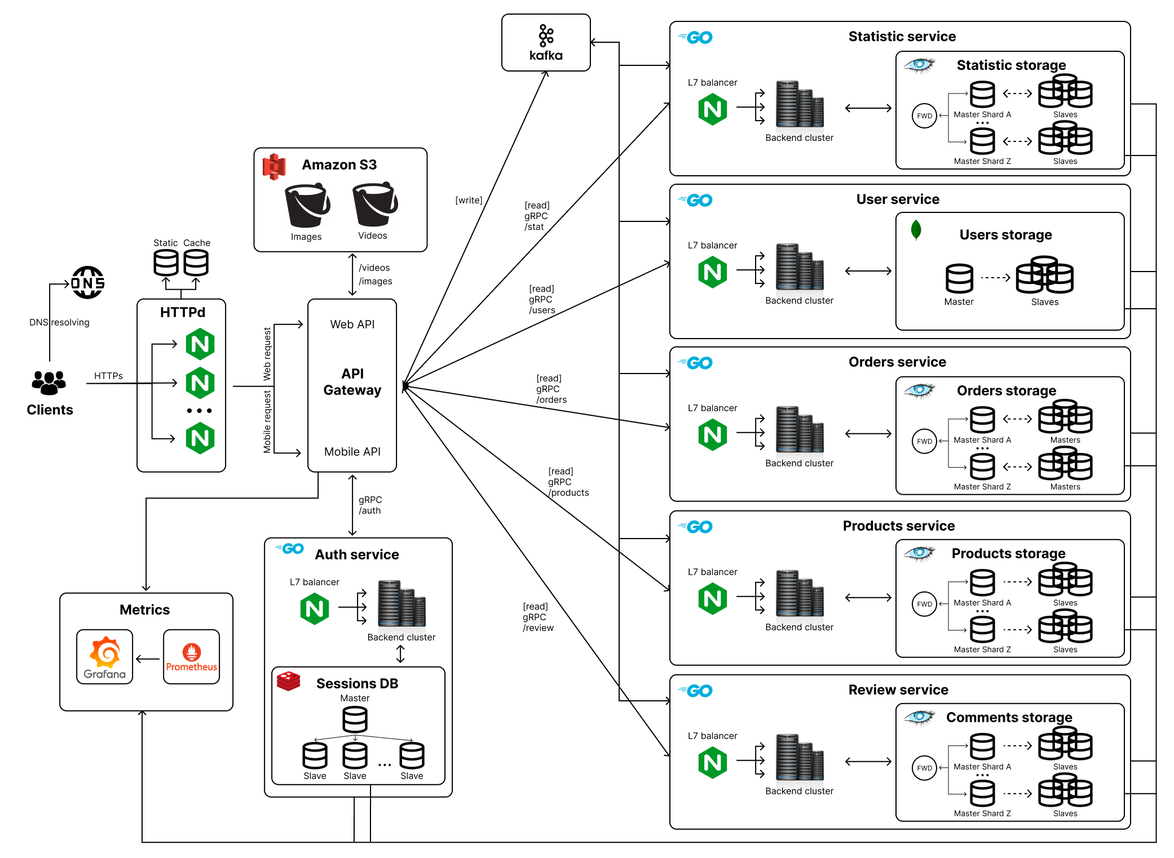
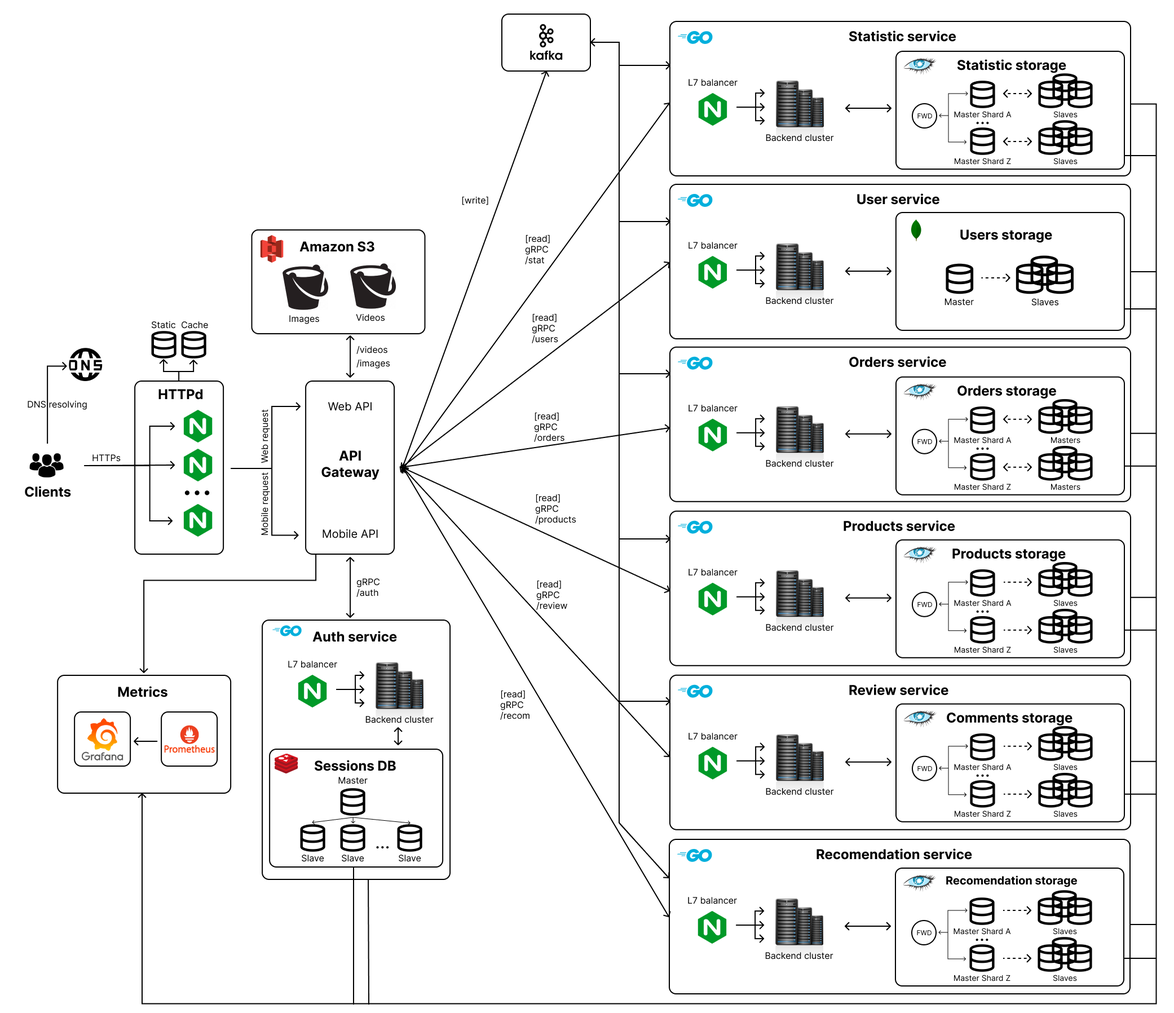
added a service of recomendations, updated indexes in physical schema of the database, added a description of the scenario for restoring the master and slave nodes

diff --git a/README.md b/README.md
@@ -182,6 +182,7 @@ Amazon — американская компания, крупнейшая в м
  - bigint - 8 Б
  - timestamp - 8 Б
  - double - 8 Б
+ - enum - 4 Б
 
 **Допущения при рассчете:**
 
@@ -195,13 +196,15 @@ Amazon — американская компания, крупнейшая в м
 - У амазона 23 главных категории, в каждой из которых примерно по 10 подкатегорий
 - 1.45 - количество оформлений заказов в день на 1 пользователя, тогда в год на всех пользователей это 3863 млн
 - На одного пользователя в среднем одна сессия
+- В таблице с самыми популярными товарами пусть будет по 20 товаров с каждого магазина по каждой категории (в среднем, считаем что на один магазин - 6 категорий товаров). Тогда общее количество строк в таблице - 0.73 млн (количество магазинов) * 20 (берем 20 товаров с магазина) * 6 (в среднем шесть категорий у одного магазина) = 88 млн строк
+- В таблице с рекомендациями находятся рекомендации только для самых популярных товаров => строк столько же, сколько в таблице самых популярных (считаем, что на каждый товар - примерно 10 рекомендаций)
 
 | Таблица         | Строк (млн) | Данных на строку | Всего | 
 | ------------- |:-------------:| :-------: | :-------: |
 | users        | 7.3 | 8 + 30 + 50 + 32 + 50 + 50 + 1 + 8 + 8 = 237 Б | 1.6 Гб |
 | recipients |  7.3 | 8 + 50 * 6 + 4 * 2 + 20 + 100 + 8 = 444 Б | 3.02 Гб |
 | payments_details    | 7.3 | 8 + 16 + 8 + 32 + 8 = 72 Б | 0.49 Гб |
-| shopping_cards  | 7.3 | 8 + 4 + 8 + 8 = 36 Б| 0.24 Гб |
+| shopping_cards  | 7.3 | 8 + 4 + 8 = 20 Б| 0.14 Гб |
 | stores  | 0.73 | 8 + 50 + 200 + 8 = 266 Б| 0.18 Гб |
 | products  | 266 | 8 + 50 + 200 + 4 + 8 * 9 + 8 + 8 + 8 = 358 Б| 87 Гб |
 | media  | 2394 | 8 + 100 + 50 = 158 Б| 352 Гб |
@@ -210,16 +213,18 @@ Amazon — американская компания, крупнейшая в м
 | categories (с parent_id)  | 0.000253 | 8 + 50 + 8 = 66 Б| 16 Мб |
 | orders  | 3863 | 8 + 4 + 8 + 10 + 8 * 4 = 62 Б| 223 Гб |
 | sessions | 7.3 | 8 + 100 + 8 + 8  = 124 Б| 0.84 Гб|
-| product_statistics| 266 | 8 * 7 = 56 Б | 14 Гб |
-| store_statistics| 0.73 | 8 * 4 = 32 Б | 0.02 Гб |
+| product_statistics| 266 | 8 * 6 = 48 Б | 11.9 Гб |
+| store_statistics| 0.73 | 8 * 3 = 24 Б | 0.02 Гб |
+| most_popular_products | 88 | 8 + 8 + 8 + 8 = 32 Б | 2.6 Гб | 
+| recomendation_products | 88 | 8 + 10 * 8 + 4 = 92 Б | 7.5 Гб | 
 
-**Итого:** ~1871 Гб в год или 1.83 Пб (без учета медиа - они были выше)
+**Итого:** ~1880 Гб в год или 1.84 Пб (без учета медиа - они были выше)
 
 ## Физическая схема БД
 
 Модель данных выглядит достаточно сложной и масштабируемой, что делает использование нереляционных баз данных привлекательным вариантом. В качестве основных СУБД лучше будет использовать Cassandra и MongoDB.
 
-`Stores`, `Products`, `Comments`, `Orders`, `Product_statistics`, `Store_statistics`: Эти таблицы обладают большим размером данных и активно используются, что делает Casandra идеальным выбором из-за ее высокой доступности и производительности. Cassandra также поддерживает шардирование, что позволяет эффективно распределить данные на узлы и обеспечить горизонтальное масштабирование.
+`Stores`, `Products`, `Comments`, `Orders`, `Product_statistics`, `Store_statistics`, `most_popular_products` и `recomendation_products`: Эти таблицы обладают большим размером данных и активно используются, что делает Casandra идеальным выбором из-за ее высокой доступности и производительности. Cassandra также поддерживает шардирование, что позволяет эффективно распределить данные на узлы и обеспечить горизонтальное масштабирование.
 
 `Users`, `Recipients`, `Payments_details`, `Shopping_carts`: MongoDB позволяет эффективно обрабатывать наборы данных. Благодаря гибкости и возможности непосредственного хранения массивов данных в документах.
 
@@ -290,8 +295,7 @@ Amazon — американская компания, крупнейшая в м
  - **Частота чтения:** высокая
  - **Частота записи:** высокая
  - **Индексы:**
-   - `cart_id` - PK
-   - `user_id` - FK
+   - `user_id` - PK
  - **Денормализация:** допольнительно хранить список id товаров, которые находятся в корзине 
  - **Репликация:** master-master
 
@@ -316,9 +320,8 @@ Amazon — американская компания, крупнейшая в м
  - **Частота записи:** средняя
  - **Индексы:**
    - `product_id` - PK
-   - `store_id` - FK
-   - `price` - фильтрация по цене (на уровне шарда)
-   - `raiting` - фильтрация по рейтингу (на уровне шарда)
+   - `store_id + price` - составной индекс (для получения товаров из конкретного магазина(-ов) + фильтрация/сортировка по цене)
+   - `store_id + raiting` - составной индекс (для получения товаров из конкретного магазина(-ов) + фильтрация/сортировка по рейтингу)
  - **Шардирование:** по `store_id`
  - **Денормализация:** допольнительно хранить список id медиа файлов
  - **Репликация:** master-slave
@@ -332,8 +335,8 @@ Amazon — американская компания, крупнейшая в м
  - **Частота записи:** низкая
  - **Индексы:**
    - `comment_id` - PK
-   - `user_id` - FK (на уровне шарда)
-   - `product_id` - FK
+   - `user_id` - FK (используется при запросе отзывов конкретного пользователя)
+   - `product_id` - FK (используется при запросе отзывов на конкретный товар)
  - **Шардирование:** по `product_id` 
  - **Репликация:** master-slave
 
@@ -346,13 +349,12 @@ Amazon — американская компания, крупнейшая в м
  - **Частота записи:** высокая
  - **Индексы:**
    - `order_id` - PK
-   - `user_id` - FK
-   - `created_at` - для сортировки по времени создания заказа (на уровне шарда)
+   - `user_id + created_at` - составной индекс (для получения заказов конкретного пользоваля + сортировки по самым новым/старым)
  - **Шардирование:** по `user_id`
  - **Денормализация:** допольнительно хранить список id товаров, которые находятся в заказе 
  - **Репликация:** master-master
 
-#### Product statistic 
+#### Product_statistic 
 
 Таблица статистики о товарах.
 
@@ -360,11 +362,11 @@ Amazon — американская компания, крупнейшая в м
  - **Частота чтения:** высокая
  - **Частота записи:** низкая
  - **Индексы:**
-   - `product_id` - FK
+   - `product_id` - PK
  - **Шардирование:** по `product_id`
  - **Репликация:** master-slave
 
-#### Store statistic
+#### Store_statistic
 
 Таблица статистики о магазинах.
 
@@ -372,7 +374,33 @@ Amazon — американская компания, крупнейшая в м
  - **Частота чтения:** высокая
  - **Частота записи:** низкая
  - **Индексы:**
+   - `store_id` - PK
+ - **Репликация:** master-slave
+
+#### Most_popular_products  
+
+Таблица самых популярных товаров по магазинам и категориям.
+
+ - **Размер:** высокий
+ - **Частота чтения:** высокая
+ - **Частота записи:** низкая
+ - **Индексы:**
    - `store_id` - FK
+ - **Шардирование:** по `store_id`
+ - **Репликация:** master-slave
+
+> Был выбран `store_id`, а не `category`, так как у него намного выше селективность.
+
+#### Recomendation_products  
+
+Таблица рекмоендованных товаров.
+
+ - **Размер:** высокий
+ - **Частота чтения:** высокая
+ - **Частота записи:** низкая
+ - **Индексы:**
+   - `product_id` - PK
+ - **Шардирование:** по `product_id`
  - **Репликация:** master-slave
 
 ### Клиентские библиотеки
@@ -398,6 +426,8 @@ Amazon — американская компания, крупнейшая в м
 
 1. Для новых пользователей, о вкусах которых еще ничего не известно, можно использовать стратегию "Самое популярное" по категориям и по магазинам. Оценка каждого товара рассчитывается как взвешенная сумма всех взаимодействий с ним: покупок, добавлений в корзину и просмотров. Система оценивает свежие взаимодействия выше, чем прошлые.
 
+    > Алгоритм берет данные из статистики товаров, распределяет их по категориям и магазинам и сохраняет их в таблицу `most_popular_products`. Когда приходит запрос с конкретным магазином или категорией - данные просто берутся из таблицы.
+
 2. Рекомендации на основе товаров (или "С этим часто покупают"). В рамках этой стратегии пользователю рекомендуются товары, которые часто покупают в связке с тем товаром, который он сейчас смотрит. 
 
     Для реализации этой стратегии можно использовать методы ассоциативного анализа, такие как алгоритм Apriori, который позволяет выявлять часто встречающиеся комбинации товаров в покупках. При просмотре определенного товара, система может рекомендовать товары, встречающиеся вместе с ним в чаще всего в покупках.
@@ -407,6 +437,11 @@ Amazon — американская компания, крупнейшая в м
     Для выявления аналогичных товаров с высокой оценкой подобия можно использовать алгоритмы коллаборативной фильтрации или контентной рекомендации. Например, коллаборативная фильтрация может анализировать историю покупок и предлагать товары, купленные другими пользователями с похожими предпочтениями. Контентная рекомендация может анализировать характеристики товаров, такие как категории, ключевые слова, и вычислять их подобие для предложения пользователю похожих товаров.
    
 4. Интеграция с внешними сервисами. Сбор данных с других ресурсов, помимо самой торговой площадки Amazon.
+
+> Алгоритмы 2-3 берут все товары из таблицы `most_popular_products` и для каждого из них подбирают товары (те, с которыми часто покупают текущих товар или аналогичные текущему товару), результаты записываются в таблицу `recomendation_products` с соотвествующим значением поля `recon_category`, а при необходимости подобрать рекомендации для конкретного товара - данные достаются из нее.
+
+Все алгоритмы работают асинхронно (допустим, раз в 8 часов).
+   
 
 ### Защита от мошенничества и модерация
 
@@ -508,13 +543,15 @@ Redis имеет следющие преимущества, относитель
  - API индивидуально для каждого вида клиента (веб или мобильный)
  - Единая компонент для микросервисного взаимодействия
 
-Всего 5 микросервисов:
+Всего 6 микросервисов:
 
  - Пользователи
  - Отзывы
  - Товары
  - Заказы
  - Аутентификация/авторизация
+ - Статистика
+ - Рекомендации
 
 #### Путь запроса
 1. Сначала клиент ресолвит IP адрес делая запрос на DNS сервер.
@@ -529,7 +566,7 @@ Redis имеет следющие преимущества, относитель
 
 При работе с хранилищем в микросервисе происходит балансировка на нужный шард (если есть шардирование). Причем стоит отметить некоторые особенности реплицирования:
 
- - Для `Users`, `Products`, `Comments` и `Sessions`, `Statistic` используется Master-Slave репликация, где для записи используется Master, а для чтения - Slave.
+ - Для `Users`, `Products`, `Comments`, `Sessions`, `Statistic` и `Recomendation` используется Master-Slave репликация, где для записи используется Master, а для чтения - Slave.
  - Для `Orders` используется Master-Master репликация, причем данные пробрасываются синхронно. Это необходимо для обеспечения отказоустойчивости, а также консистентности данных.
 
 ## Обеспечение надежности
@@ -555,6 +592,27 @@ Redis имеет следющие преимущества, относитель
 
 - CQRS: используется для разделения операций записи (команд) и операций чтения (запросов) в системе
 - Event-driven архитектура: команды добавляются в брокер сообщений, после чего асинхронно обрабатваются
+
+### Отказ одного из узлов БД
+
+#### Отказ ведомого узла
+
+Каждый ведомый узел хранит на своем жестком диске журнал полученных от ведущего изменений данных. В случае сбоя и перезагрузки ведомого узла или временного прекращения работы участка сети между ведущим и ведомым узлами последний может легко возобновить работу: из своего журнала он знает, какая
+транзакция была обработана перед сбоем. Следовательно, ведомый узел способен подключиться к ведущему и запросить все изменения данных, имевшие место за то время, пока он был недоступен.
+
+#### Отказ ведущего узла
+
+Справиться с отказом ведущего узла сложнее: необходимо «повысить в звании» один из ведомых до ведущего, настроить клиенты на отправку записей новому ведущему, а другие ведомые должны начать получать изменения данных от нового ведущего. Этот процесс называется восстановлением после отказа.
+
+Восстановление после отказа может выполняться вручную (администратор получает оповещение об отказе ведущего узла и принимает соответствующие меры по созданию нового ведущего) или автоматически с помощью следующих шагов: 
+
+1. **Установить отказ ведущего узла.** Узлы постоянно обмениваются сообщениями друг с другом, и если один из них не отвечает в течение определенного времени (например, 30 секунд), то считается,
+что он не работает.
+
+2. **Выбрать новый ведущий узел.** Оптимальным кандидатом на роль нового ведущего узла обычно является реплика с наиболее свежими изменениями данных, полученными от старого (в целях минимизации потерь данных).
+
+3. **Настроить систему на использование нового ведущего узла.** Клиенты должны начать отправлять запросы на запись новому ведущему узлу. Если старый ведущий узел возобновляет работу, может оказаться,
+что он продолжает считать себя ведущим и не осознает решение остальных реплик считать его недееспособным. Система должна обеспечить превращение старого ведущего узла в ведомый и признание им нового ведущего.
 
 ## Расчет ресурсов
 
@@ -645,6 +703,14 @@ Redis имеет следющие преимущества, относитель
             <td>0.5 Гбит/с</td>
         </tr>
         <tr>
+            <td>Recomendation</td>
+            <td>Запрос рекомендаций</td>
+            <td>22500</td>
+            <td>225</td>
+            <td>32 Гб</td>
+            <td>0.5 Гбит/с</td>
+        </tr>
+        <tr>
             <td>nginx</td>
             <td>-</td>
             <td>150000</td>
@@ -664,6 +730,7 @@ Redis имеет следющие преимущества, относитель
 | Orders | own     | 2x6430/2x1GB/1xNVMe256Gb/2x10Gb/s  | 8    | 4       | 
 | Review | own     | 2x6430/4x8GB/1xNVMe256Gb/2x10Gb/s  | 64    | 6       | 
 | Statistic | own     | 2x6430/4x8GB/1xNVMe256Gb/2x10Gb/s  | 64    | 6       | 
+| Recomendation | own     | 2x6430/4x8GB/1xNVMe256Gb/2x10Gb/s  | 64    | 6       | 
 
 ## Источники
  1. https://www.similarweb.com/ru/website/amazon.com/#traffic
